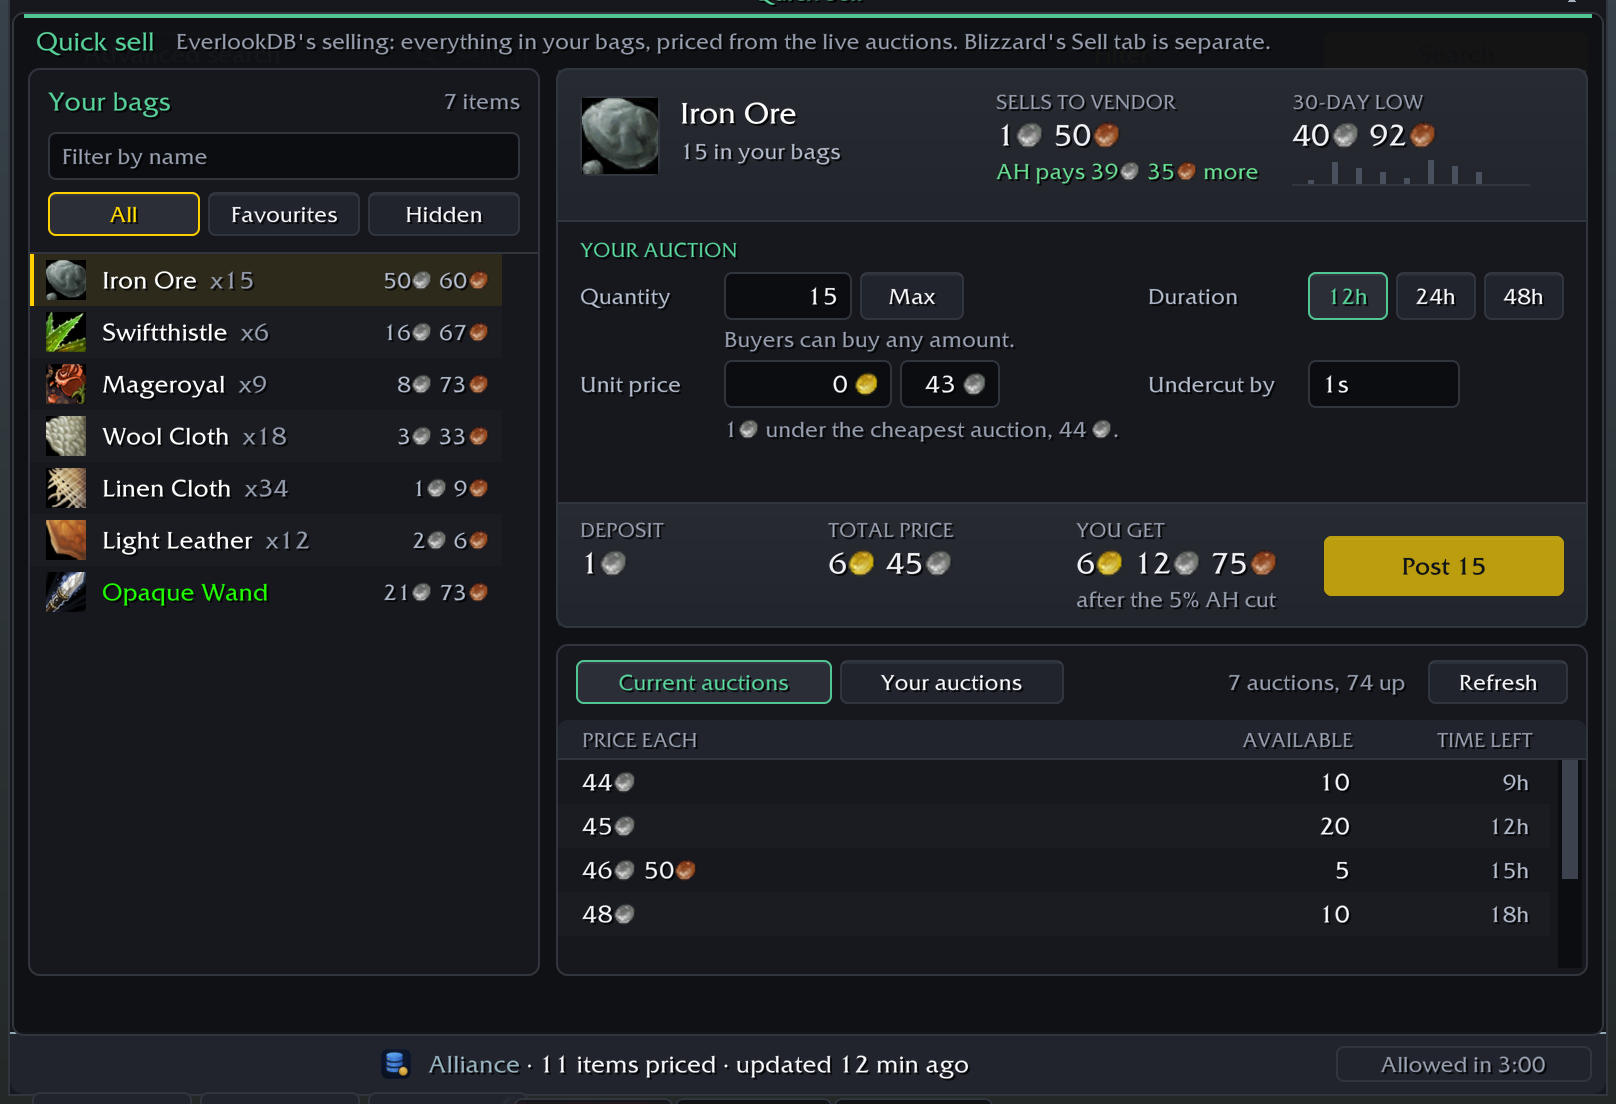
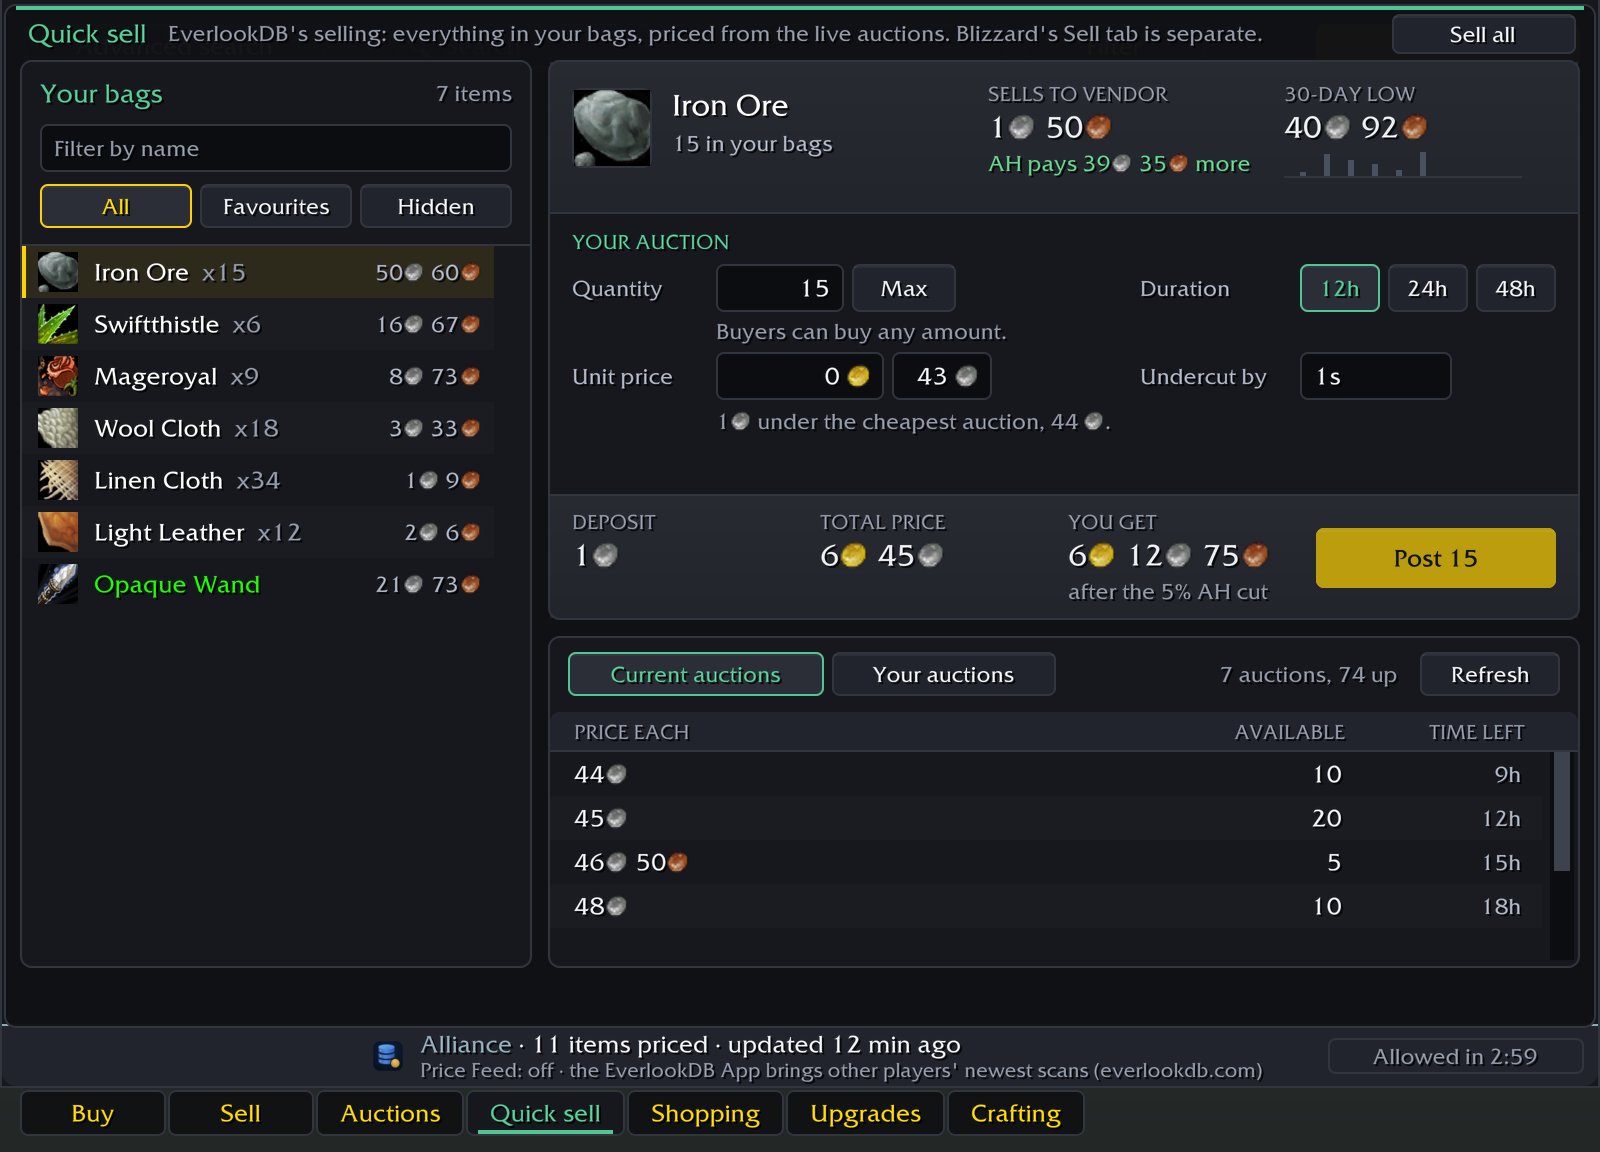
Screenshots: v0.34 gallery (Home, Deals, Quick sell with the tab row, Sell all, Gold, Crafting profit queue, Shopping lists, Where is it?, AH log, tooltip) with titles

diff --git a/screenshots/compose.py b/screenshots/compose.py
@@ -41,10 +41,14 @@ def place(ims, out, gap=70, maxw=1760, maxh=980, shadows=True, up=1.0):
 
 
 
-# Released features only (v0.15.0); Gear upgrades get their own shots when they ship.
-place([raw("quick-sell", key=False)], "1-quick-sell.png")
-place([raw("prices-away", key=False)], "2-prices-anywhere.png")
-place([raw("profit", key=False)], "3-crafting-profit.png")
-place([raw("ah-log-bought", key=False)], "4-ah-log.png")
-place([raw("loot-cards", crop=(2585, 405, 3190, 712), key=False)], "5-loot-cards.png", up=1.6)
-place([raw("search", key=False)], "6-settings.png")
+# v0.34 (current): best first. Names sort in gallery order (01-...); titles in curseforge.json screenshotTitles.
+place([raw("hub-home", key=False)], "01-home.png")
+place([raw("deals-ah", key=False)], "02-deals.png")
+place([raw("quick-sell", key=False)], "03-quick-sell.png")
+place([raw("sell-all", key=False)], "04-sell-all.png")
+place([raw("gold", key=False)], "05-gold.png")
+place([raw("profit-queue", key=False)], "06-crafting-profit.png")
+place([raw("shopping-import", key=False)], "07-shopping-lists.png")
+place([raw("where", key=False)], "08-where-is-it.png")
+place([raw("ah-log-bought", key=False)], "09-ah-log.png")
+place([raw("tooltip", crop=(34, 34, 655, 630), key=False)], "10-tooltips.png", up=1.3)   # the tooltip alone, without the slot button
